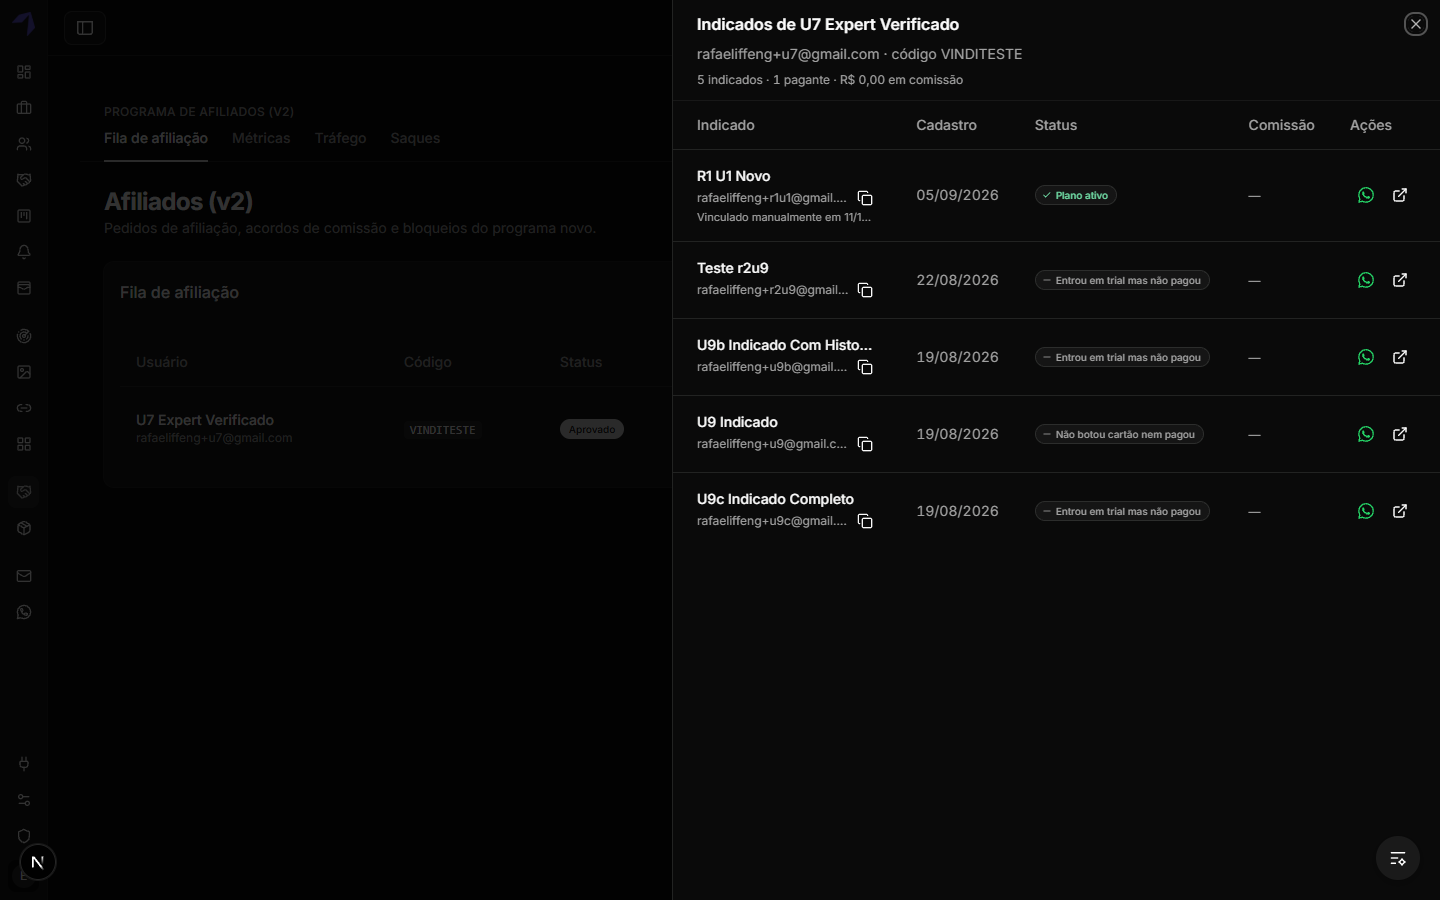
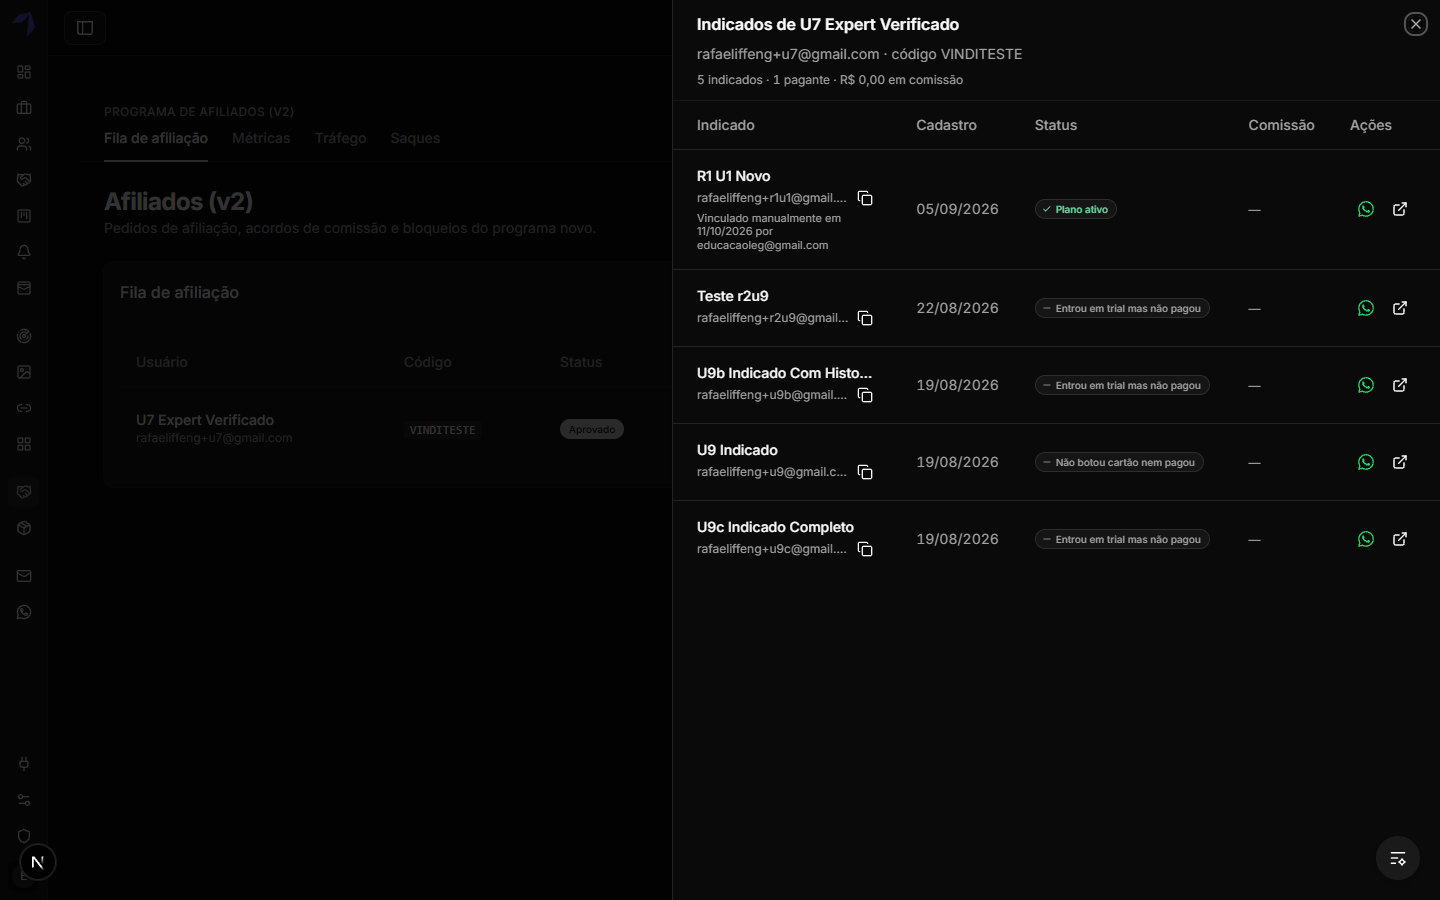
fix(afiliados): marca de vínculo manual quebra linha em vez de cortar
Mostra data e admin sem hover (R5) e mascara telefones na evidência.

diff --git a/app/(admin)/referrals/affiliate-customers-sheet.tsx b/app/(admin)/referrals/affiliate-customers-sheet.tsx
@@ -228,6 +228,9 @@ export function AffiliateCustomersSheet({
                   {customers.map((customer) => {
                     const whatsappUrl = getWhatsAppUrl(customer.user.phone);
                     const displayName = customer.user.name?.trim();
+                    const manualLinkDate = customer.manualLink
+                      ? formatNumericDateInSaoPaulo(customer.manualLink.linkedAt)
+                      : null;
 
                     return (
                       <TableRow key={customer.id}>
@@ -256,12 +259,10 @@ export function AffiliateCustomersSheet({
                             </div>
                             {customer.manualLink ? (
                               <p
-                                className="truncate text-[11px] text-muted-foreground"
-                                title={`Vinculado manualmente em ${formatNumericDateInSaoPaulo(customer.manualLink.linkedAt)} por ${customer.manualLink.adminEmail}`}
+                                className="mt-0.5 text-[11px] leading-tight text-muted-foreground [overflow-wrap:anywhere]"
                                 data-testid="manual-link-marker"
                               >
-                                Vinculado manualmente em{" "}
-                                {formatNumericDateInSaoPaulo(customer.manualLink.linkedAt)} por{" "}
+                                Vinculado manualmente em {manualLinkDate} por{" "}
                                 {customer.manualLink.adminEmail}
                               </p>
                             ) : null}
